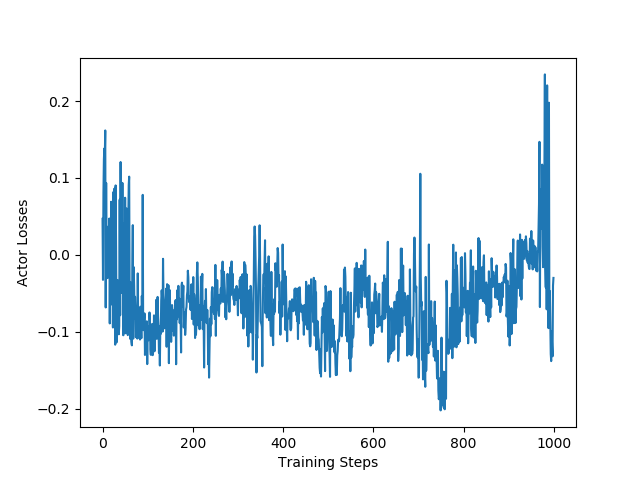
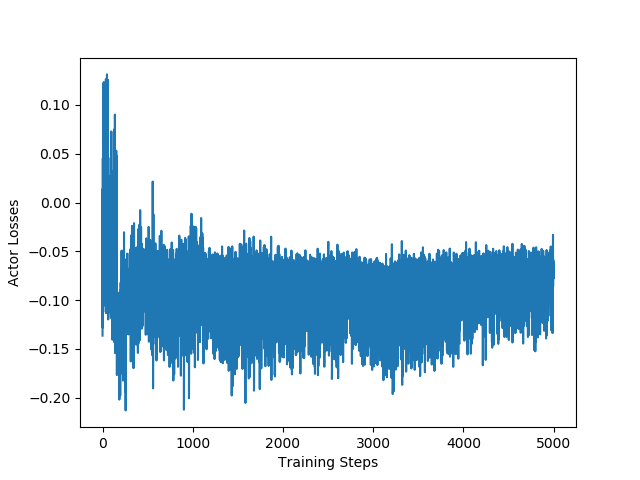
batch long runs by step size

diff --git a/helpers.py b/helpers.py
@@ -118,9 +118,9 @@ def load_model(model, filename, evalMode=True):
     return model
 
 
-def worker(model, params, render=False, train=True):
+def worker(model, params, render=False, train=True, max_eps=300):
     env = gym.make("CartPole-v1")
-    env._max_episode_steps = 5000
+    env._max_episode_steps = max_eps
     optimizer = torch.optim.Adam(
         lr=params['lr'], params=model.parameters())
 
@@ -129,7 +129,7 @@ def worker(model, params, render=False, train=True):
         values, logprobs, rewards, eplen = run_episode(
             env, model, optimizer, params, render, train)
 
-        if train and eplen > highest_score:
+        if train and eplen >= highest_score:
             highest_score = eplen
             save_model(model, 'actor_critic_checkpoint@highest.pt')
 
@@ -145,6 +145,7 @@ def worker(model, params, render=False, train=True):
             if epoch % 10 == 0:
                 print("Epoch: {}, Loss: {:.4f}, Ep Len: {}, highest: {}".format(
                     epoch, loss, eplen, highest_score))
+
 
 def run_episode(env, model, optimizer, params, render, train):
     state = torch.from_numpy(env.reset()).float()
@@ -170,7 +171,7 @@ def run_episode(env, model, optimizer, params, render, train):
         state_, reward, done, _ = env.step(action.detach().numpy())
         state = torch.from_numpy(state_).float()
 
-        if render:
+        if not train:
             env.render()
 
         if done:
@@ -180,12 +181,17 @@ def run_episode(env, model, optimizer, params, render, train):
         rewards.append(reward)
 
         if train and step_count % params['step_update'] == 0:
-            update_params(optimizer, values, logprobs, rewards, params, mid_update=True)
+            update_params(optimizer, values, logprobs,
+                          rewards, params, mid_update=True)
+    
+    env.close()
 
     return values, logprobs, rewards, len(rewards)
 
 
 prev_logprobs = torch.Tensor([0])
+
+
 def update_params(optimizer, values, logprobs, rewards, params, mid_update=False):
     global prev_logprobs
 
@@ -204,24 +210,43 @@ def update_params(optimizer, values, logprobs, rewards, params, mid_update=False
         total_return = rewards[reward_index] + params['gamma'] * total_return
         Returns.append(total_return)
 
-    gae_reduction = torch.Tensor(
-        [(1 - params['gae']) * params['gae'] ** i for i in range(len(Returns))]).flip(dims=(0,))
-    gae_reduction = gae_reduction if not mid_update else 1
-    Returns = torch.stack(Returns).view(-1)
-    Returns = F.normalize(Returns, dim=0)
+    batch_index = 0
+    batches = []
+    while True:
 
-    ppo_ratio = (logprobs - prev_logprobs[-1:]).exp()
-    torch.cat((prev_logprobs[1:], logprobs))
-    advantage = Returns - values.detach()
-    surrogate0 = ppo_ratio * advantage
-    surrogate1 = torch.clamp(ppo_ratio, 1.0 - params['ppo_epsilon'], 1.0 + params['ppo_epsilon']) * advantage
+        batches.append((
+            Returns[batch_index: batch_index + params['step_update']],
+            logprobs[batch_index: batch_index + params['step_update']],
+            values[batch_index: batch_index + params['step_update']]))
 
-    actor_loss = - torch.min(surrogate0, surrogate1) * gae_reduction
-    critic_loss = torch.pow(values - (Returns * gae_reduction), 2)
+        batch_index += params['step_update']
 
-    loss = actor_loss.mean() + params['clc']*critic_loss.mean()
-    optimizer.zero_grad()
-    loss.backward(retain_graph=True)
-    optimizer.step()
+        if batch_index + params['step_update'] > len(rewards):
+            break
+
+    for batch in batches:
+
+        (Return, logprob, value) = batch
+
+        gae_reduction = torch.Tensor(
+            [(1 - params['gae']) * params['gae'] ** i for i in range(len(Return))]).flip(dims=(0,))
+        gae_reduction = gae_reduction if not mid_update else 1
+        Return = torch.stack(Return).view(-1)
+        Return = F.normalize(Return, dim=0)
+
+        ppo_ratio = (logprob - prev_logprobs[-1:]).exp()
+        torch.cat((prev_logprobs[1:], logprob))
+        advantage = Return - value.detach()
+        surrogate0 = ppo_ratio * advantage
+        surrogate1 = torch.clamp(
+            ppo_ratio, 1.0 - params['ppo_epsilon'], 1.0 + params['ppo_epsilon']) * advantage
+
+        actor_loss = - torch.min(surrogate0, surrogate1) * gae_reduction
+        critic_loss = torch.pow(value - (Return * gae_reduction), 2)
+
+        loss = actor_loss.mean() + params['clc']*critic_loss.mean()
+        optimizer.zero_grad()
+        loss.backward(retain_graph=True)
+        optimizer.step()
 
     return loss, actor_loss.sum(), critic_loss.sum()

diff --git a/main.py b/main.py
@@ -10,7 +10,7 @@ from time import perf_counter
 from model import ActorCritic, loss_fn
 from helpers import discount_rewards, train_model, plot_losses, plot_durations, save_model, load_model, worker
 
-lr = 0.0015
+lr = 0.001
 gamma = 0.99
 gae = 0.9
 clc = 0.1
@@ -27,7 +27,7 @@ output_dim_critic = 1
 model = ActorCritic(
     input_dim, shared_hidden0, shared_hidden1, critic_hidden, output_dim_actor, output_dim_critic)
 
-epochs = 1000
+epochs = 5000
 losses = []
 actor_losses = []
 critic_losses = []
@@ -49,7 +49,7 @@ params = {
 }
 
 
-worker(model, params)
+worker(model, params, max_eps=250)
 save_model(model, 'actor_critic.pt')
 
 rolling_window = 50

diff --git a/test_net.py b/test_net.py
@@ -33,4 +33,4 @@ params = {
     'lr': lr
 }
 
-worker(model, params, render=True, train=False)
+worker(model, params, render=True, train=False, max_eps=1000)
